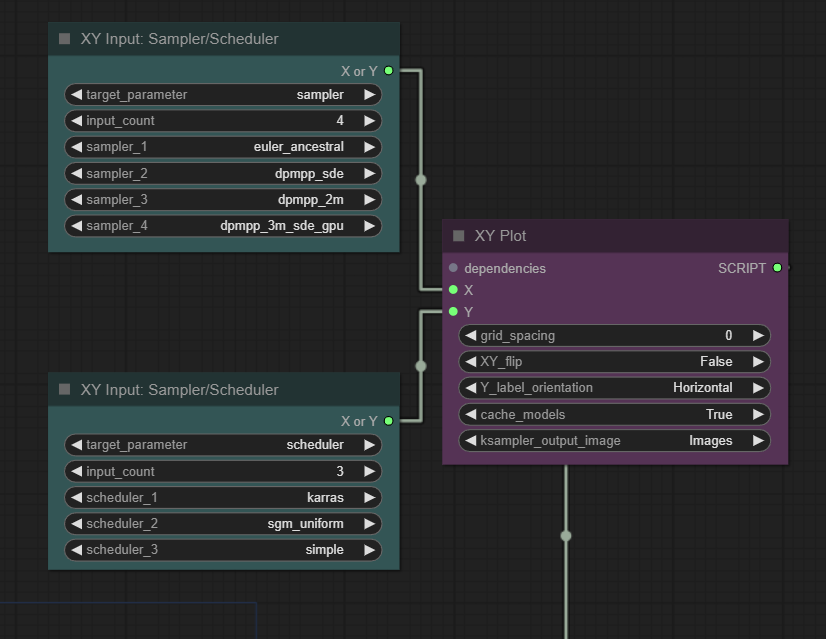
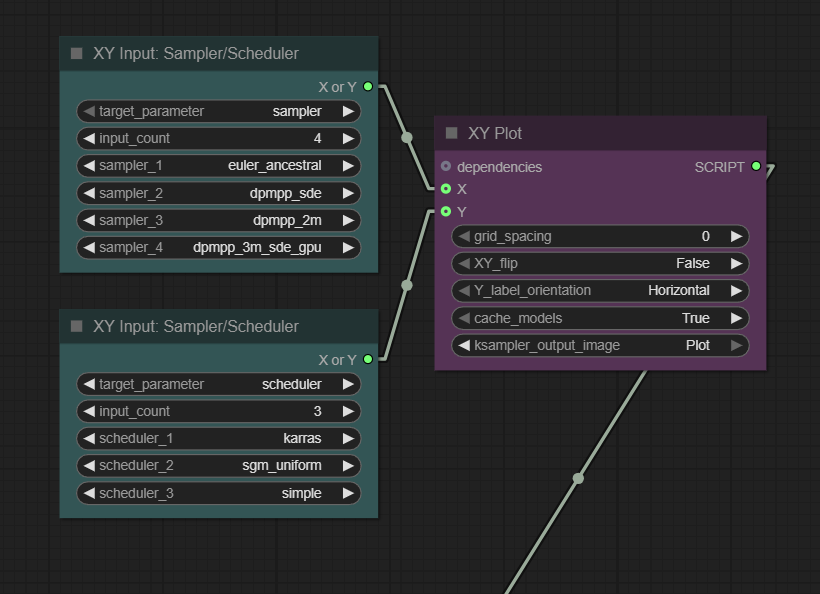
0.8.2 update
0.8.2 update

diff --git a/install.py b/install.py
@@ -21,7 +21,9 @@ new_widgethider_js = "./user_css/widgethider.js"
 read_css_folder = "./user_css/"
 write_css_folder = "../../../python_embeded/Lib/site-packages/comfyui_frontend_package/static/"
 
-
+efficeincy_nodes_py = "../efficiency-nodes-comfyui/efficiency_nodes.py"
+efficeincy_nodes_target = '"ksampler_output_image": (["Images","Plot"],),},'
+efficeincy_nodes_replacement = '"ksampler_output_image": (["Images","Plot"], {"default": "Plot"}),},'
 
 def is_file_exist(filepath):
     if not os.path.isfile(filepath):
@@ -91,6 +93,31 @@ def annotate_wildcard(py_file):
         print(f"File has been modified: {js_file}")
 
 
+
+def replace_py_file(py_file, target_line, replacement_line):
+    if not is_file_exist(py_file):
+        return
+
+    with open(py_file, 'r', encoding='utf-8') as file:
+        lines = file.readlines()
+
+    modified = False
+    new_lines = []
+
+    for line in lines:
+        stripped = line.strip()
+        if stripped == target_line:
+            indent = line[:line.index(target_line)]
+            new_lines.append(indent + replacement_line+"\n")
+            modified = True
+        else:
+            new_lines.append(line)
+
+    if modified:
+        with open(py_file, 'w', encoding='utf-8') as file:
+            file.writelines(new_lines)
+        print(f"File has been modified: {py_file}")
+
 def widgethider_js_copy():
     shutil.copy2(new_widgethider_js, widgethider_js)
     print(f"File copied: {widgethider_js}")
@@ -125,6 +152,7 @@ try:
     annotate_wildcard(impact_wildcard_py)
     widgethider_js_copy()
     copy_user_css()
+    replace_py_file(efficeincy_nodes_py, efficeincy_nodes_target, efficeincy_nodes_replacement)
     print(f"\n\nEfficiency Nodes ED: Attempting to {printout} success!\n\n")
     
 except Exception as e:

diff --git a/README_KR.md b/README_KR.md
@@ -252,7 +252,7 @@
            <div class="img-wrap"><img src="https://raw.githubusercontent.com/NyaamZ/efficiency-nodes-ED/refs/heads/main/html_resource/0014.png" alt="" width="400" style="display: inline-block;"></div>
            <div class="txt-wrap"><p>(EXIF 있음)</p></div>
        </div>
-
+   
        
 
   - ### 리저널 프롬프트 - Image 2 Image
@@ -320,7 +320,7 @@
   <p align="left">
     <img src="https://raw.githubusercontent.com/NyaamZ/efficiency-nodes-ED/refs/heads/main/html_resource/0023.png" width="400" style="display: inline-block;">
   </p>
-
+  
   
 
 
@@ -338,7 +338,9 @@
        <img src="https://raw.githubusercontent.com/NyaamZ/efficiency-nodes-ED/refs/heads/main/html_resource/0024.png" width="500" style="display: inline-block;">
      </p>
 
-  2. XY plot 오른 클릭 > Add X input > XY Input: Sampler/Scheduler
+  2. XY plot의 <code>ksampler_output_image</code>를 반드시 <code>plot</code>으로 할것!!
+
+     XY plot 오른 클릭 > Add X input > XY Input: Sampler/Scheduler
 
      XY plot 오른 클릭 > Add Y input > XY Input: Sampler/Scheduler
 
@@ -347,7 +349,7 @@
   3. 큐를 돌리면 다음처럼 한눈에 적절한 설정 값을 확인할 수 있다.
 
      <p><img src="https://raw.githubusercontent.com/NyaamZ/efficiency-nodes-ED/refs/heads/main/html_resource/0026.jpg" width="700" style="display: inline-block;"></p>
-
+  
      
 
 
@@ -393,7 +395,7 @@
            <div class="img-wrap"><img src="https://raw.githubusercontent.com/NyaamZ/efficiency-nodes-ED/refs/heads/main/html_resource/0037.png" alt="" width="400" style="display: inline-block;"></div>
            <div class="txt-wrap"><p>(EXIF 있음)</p></div>
        </div>
-
+       
        
 
 
@@ -764,9 +766,9 @@
 ## 알려진 버그
 
 - [**efficiency-nodes-comfyui**](https://github.com/jags111/efficiency-nodes-comfyui)에 버그가 있음. 그냥 쓰면 Cannot redefine property에러가 발생하는데, 업데이트 후 반드시 <code>start.bat</code>을 실행할 것.
-   
+  
 - <code>🔍 View model info...</code>를 했을 때 [civitai.com](https://unsafelink.com/https://civitai.com/) 에서 다음처럼 모델을 못찾는 버그가 있음.
-   
+  
    <p><img src="https://raw.githubusercontent.com/NyaamZ/efficiency-nodes-ED/refs/heads/main/html_resource/0041.png" width="400" style="display: inline-block;"></p>
    
     해시 값이 안맞아서 발생하는 문제인데
